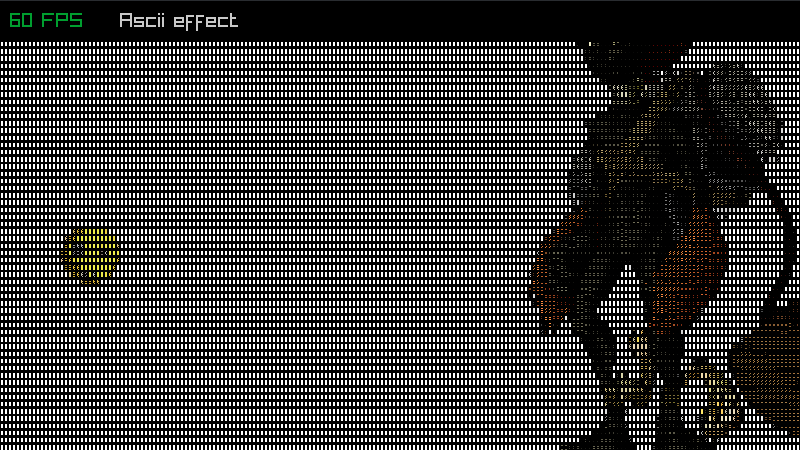
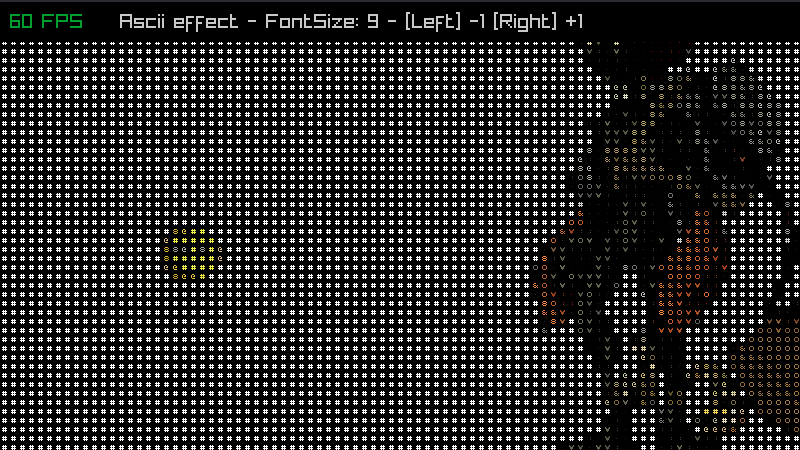
[examples] Fix `shaders_ascii_rendering` (#5219)
* Add ascii post processing

* Fix broken characters and add more comments

* Rename example

* Refactored as requested

diff --git a/examples/shaders/shaders_ascii_rendering.c b/examples/shaders/shaders_ascii_rendering.c
@@ -48,14 +48,14 @@ int main(void)
     int fontSizeLoc = GetShaderLocation(shader, "fontSize");
 
     // Set the character size for the ASCII effect
-    float fontSize = 4.0f;
+    // Fontsize should be 9 or more
+    float fontSize = 9.0f;
 
     // Send the updated values to the shader
     float resolution[2] = { (float)screenWidth, (float)screenHeight };
     SetShaderValue(shader, resolutionLoc, resolution, SHADER_UNIFORM_VEC2);
-    SetShaderValue(shader, fontSizeLoc, &fontSize, SHADER_UNIFORM_FLOAT);
 
-    Vector2 circlePos = (Vector2){40.0f, (float)screenHeight * 0.5f};
+    Vector2 circlePos = (Vector2){40.0f, (float)screenHeight*0.5f};
     float circleSpeed = 1.0f;
 
     // RenderTexture to apply the postprocessing later
@@ -67,37 +67,47 @@ int main(void)
     // Main game loop
     while (!WindowShouldClose())    // Detect window close button or ESC key
     {
+    
         // Update
         //----------------------------------------------------------------------------------
+        if (IsKeyPressed(KEY_LEFT) && fontSize > 9.0) fontSize -= 1;  // Reduce fontSize
+
+        if (IsKeyPressed(KEY_RIGHT) && fontSize < 15.0) fontSize += 1;  // Increase fontSize
+
+        if (circlePos.x > 200.0f || circlePos.x < 40.0f) circleSpeed *= -1; // Revert speed
+
         circlePos.x += circleSpeed;
-        
-        if ((circlePos.x > 200.0f) || (circlePos.x < 40.0f)) circleSpeed *= -1;
-        //----------------------------------------------------------------------------------
+
+        // Set fontsize for the shader
+        SetShaderValue(shader, fontSizeLoc, &fontSize, SHADER_UNIFORM_FLOAT);
 
         // Draw
         //----------------------------------------------------------------------------------
-        // Draw our scene to a render texture first
+
         BeginTextureMode(target);
-            ClearBackground(WHITE);
-            
+            ClearBackground(WHITE); // The background of the scene itself
+
+            // Samples Using custom shader
             DrawTexture(fudesumi, 500, -30, WHITE);
             DrawTextureV(raysan, circlePos, WHITE);
-        
+
         EndTextureMode();
-        
         BeginDrawing();
+
             ClearBackground(RAYWHITE);
 
             BeginShaderMode(shader);
-                // Draw the render texture containing scene
-                // The shader will process every pixel on the screen
-                DrawTextureRec(target.texture,
-                    (Rectangle){ 0, 0, (float)target.texture.width, (float)-target.texture.height }, 
-                    (Vector2){ 0, 0 }, WHITE);
+
+                // Draw the scene texture (that we rendered earlier) to the screen
+                // The shader will process every pixel of this texture
+                DrawTextureRec(target.texture, 
+                               (Rectangle){ 0, 0, (float)target.texture.width, (float)-target.texture.height }, 
+                               (Vector2){ 0, 0 }, 
+                               WHITE);
             EndShaderMode();
 
             DrawRectangle(0, 0, screenWidth, 40, BLACK);
-            DrawText("Ascii effect", 120, 10, 20, LIGHTGRAY);
+            DrawText(TextFormat("Ascii effect - FontSize:%2.0f - [Left] -1 [Right] +1 ", fontSize), 120, 10, 20, LIGHTGRAY);
             DrawFPS(10, 10);
 
         EndDrawing();
